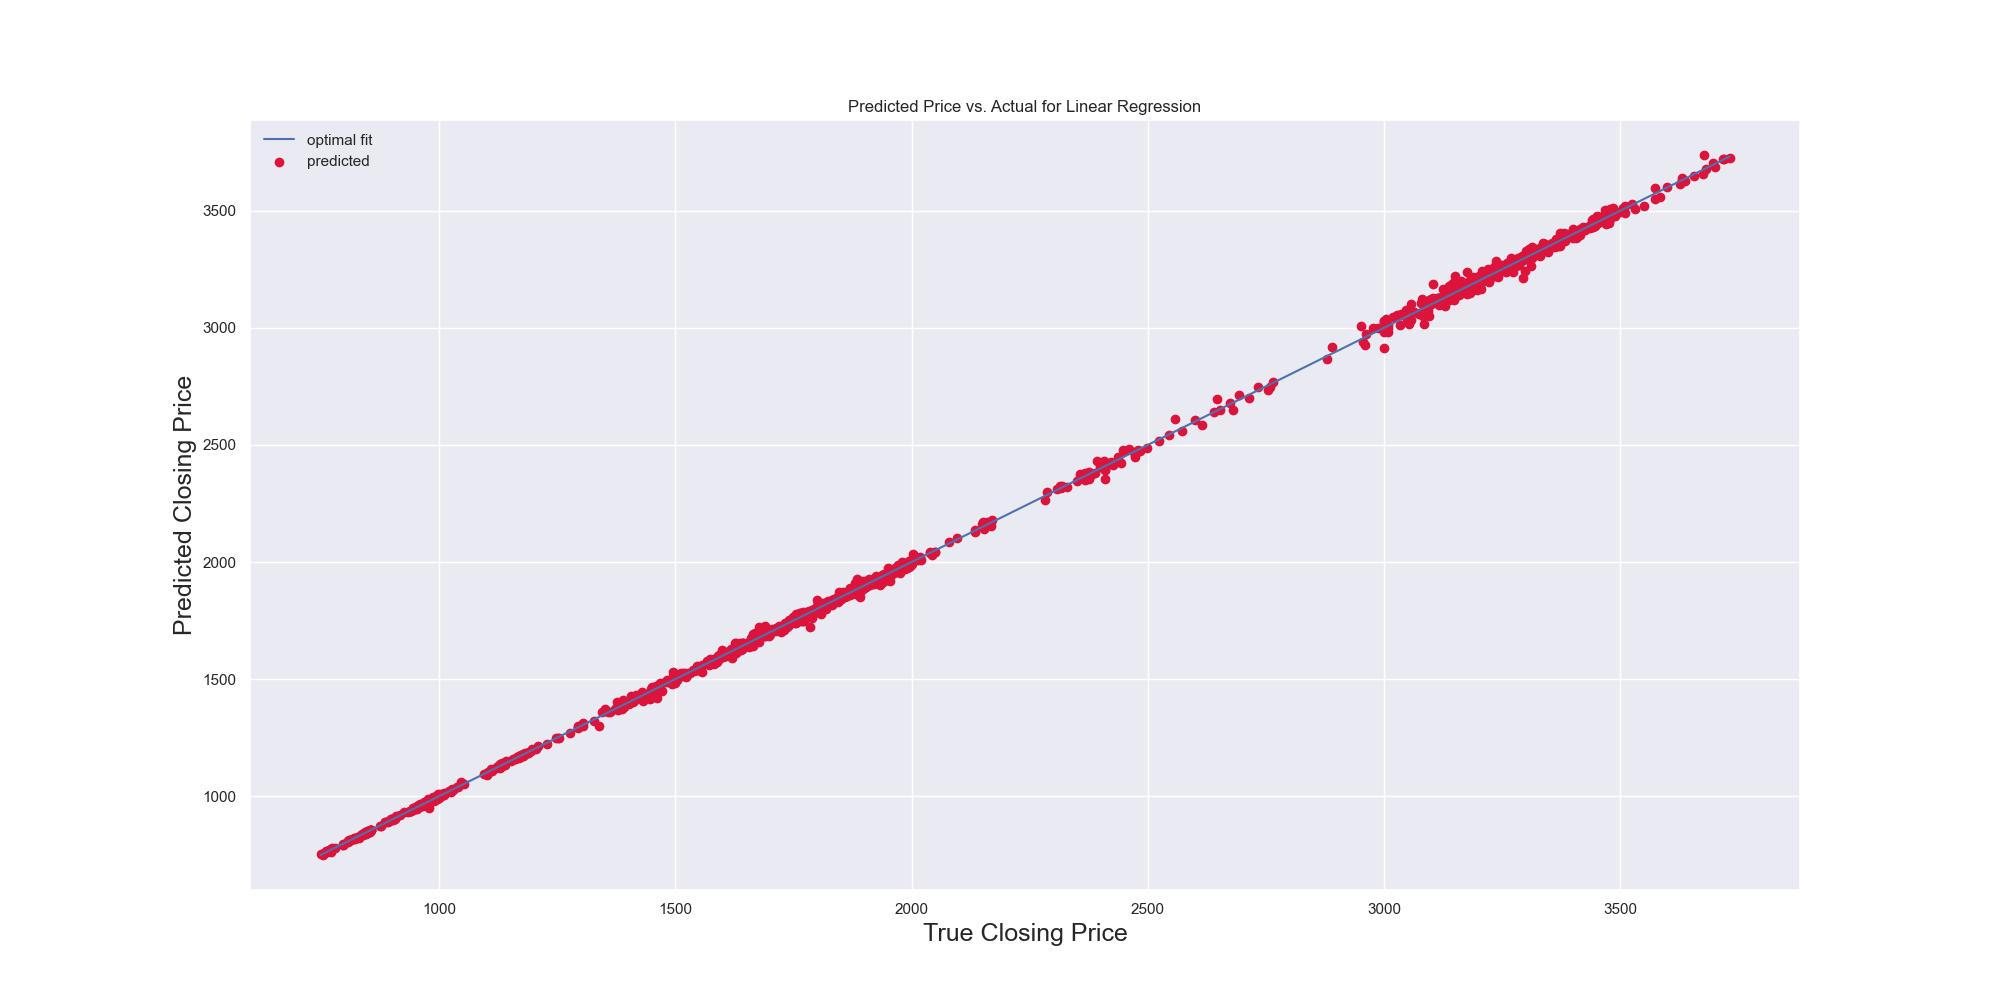
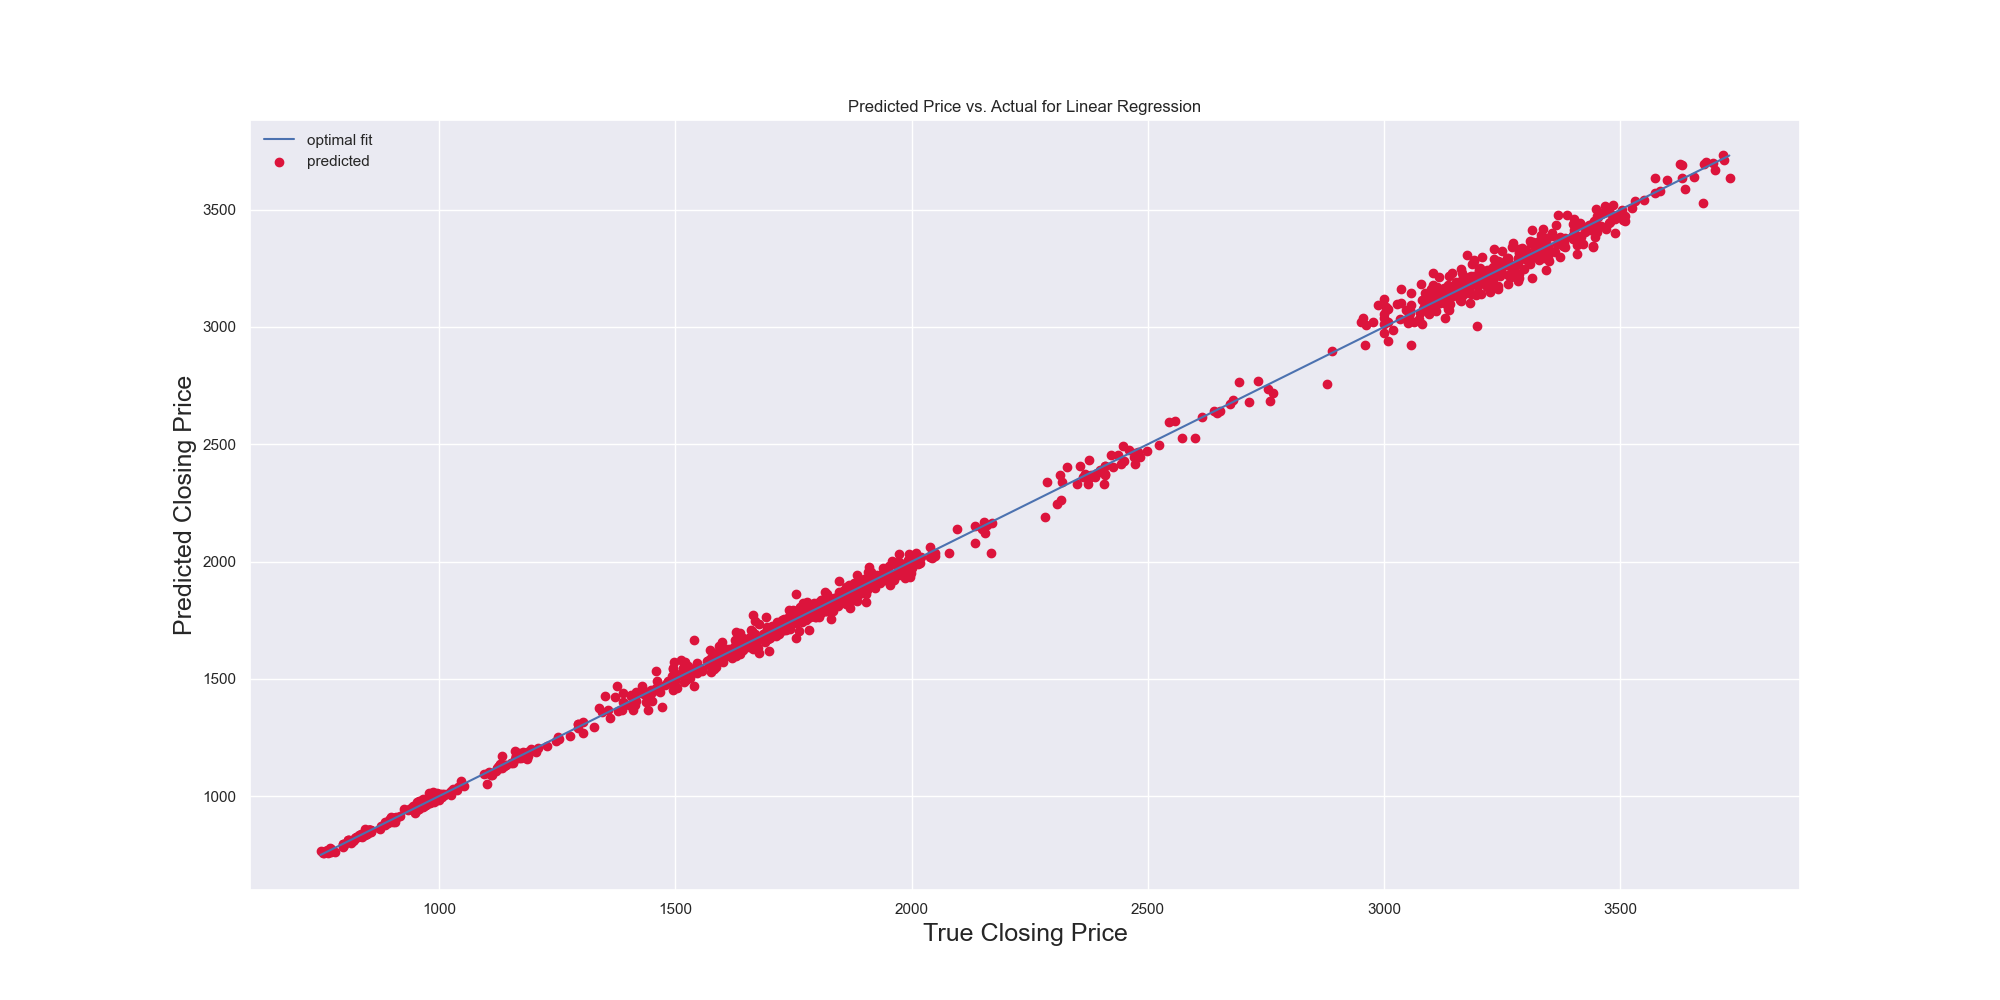
added EMA back in

diff --git a/scrape.py b/scrape.py
@@ -65,11 +65,11 @@ plt.show() if args.showfigs else plt.clf()
 
 # Add ema (exponential moving average) to plot against close price
 # This is a work-around for linear predictions bc time not a good x var
-#group_size = 10 # we can test with different values here for better fit?
-#df.ta.ema(close='Adjusted Close', length=group_size, append=True)
-#df = df.reindex(columns=(['EMA_10'] + list([a for a in df.columns if a != 'EMA_10']) ))
-#df.dropna(subset=["EMA_10"], inplace=True) # move to front -> easier splitting of data later
-#print(df.head()) # Verify that new EMA_10 col is at front with no NANs
+group_size = 10 # we can test with different values here for better fit?
+df.ta.ema(close='Adjusted Close', length=group_size, append=True)
+df = df.reindex(columns=(['EMA_10'] + list([a for a in df.columns if a != 'EMA_10']) ))
+df.dropna(subset=["EMA_10"], inplace=True) # move to front -> easier splitting of data later
+print(df.head()) # Verify that new EMA_10 col is at front with no NANs
 
 # Move data to numpy arrays and split into training and testing sets
 #df['Date'] = pd.to_datetime(df['Date'])
@@ -78,8 +78,9 @@ plt.show() if args.showfigs else plt.clf()
 #X = v[:,0:6] # create X data excluding date and adjusted closing price
 #y = v[:,6]   # create y data using adjusted closing price -> target
 
-features = ['Date','Low','Open','Volume','High','Close']
-features_nodate = ['Low','Open','Volume','High']
+features = ['EMA_10', 'Date','Low','Open','Volume','High','Close']
+#features_nodate = ['Low','Open','Volume','High']
+features_nodate = ['EMA_10', 'Open']
 target = ['Adjusted Close']
 X = df[features_nodate]
 y = df[target]
